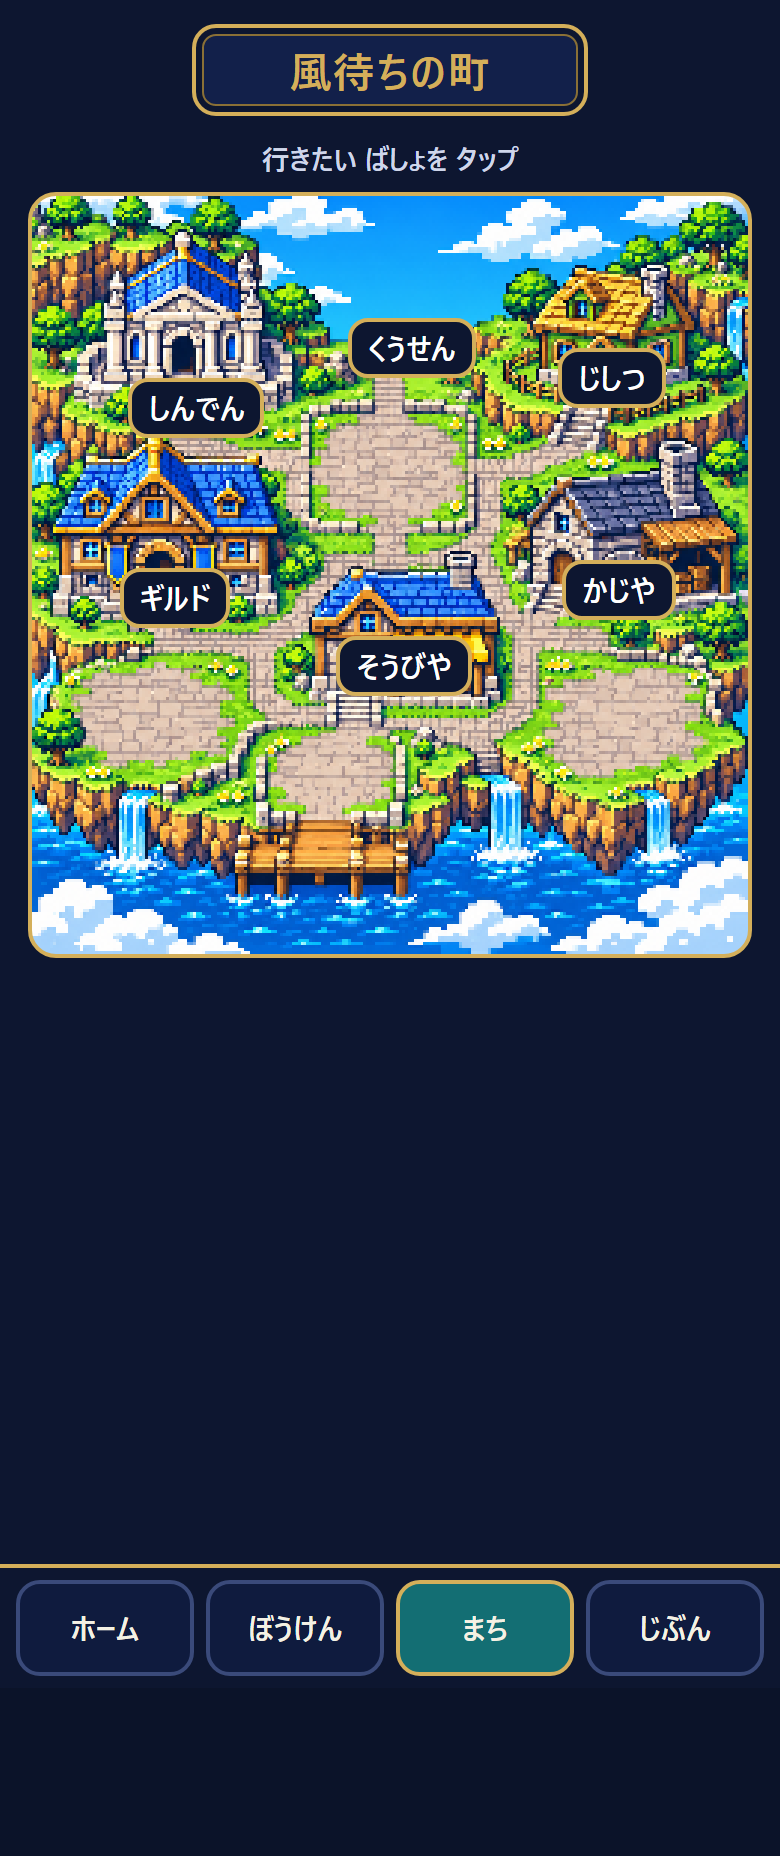
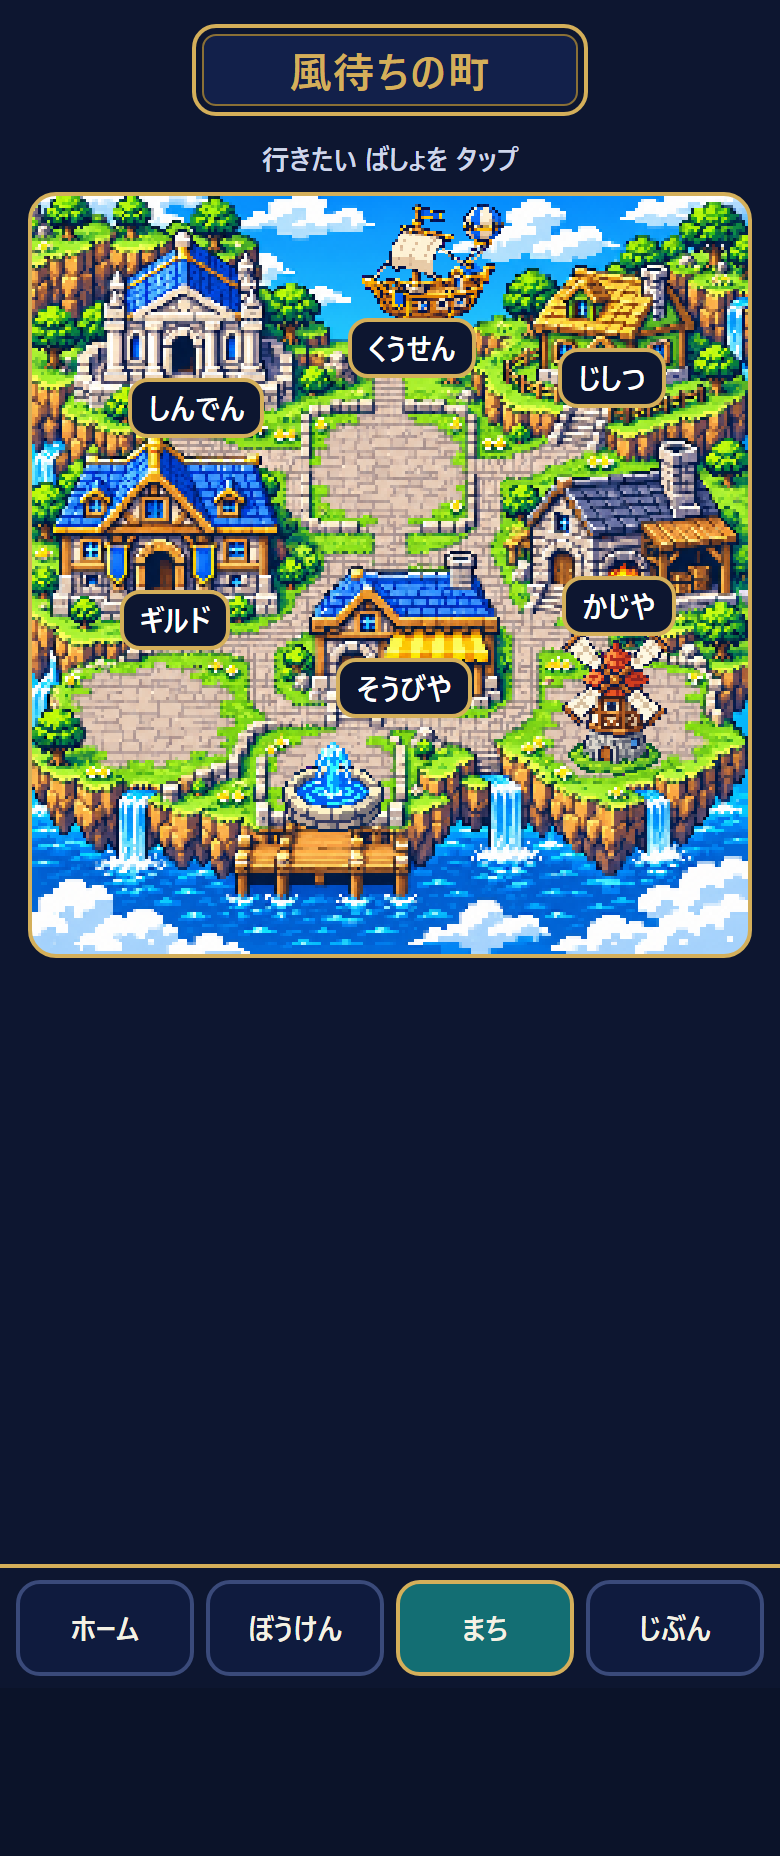
RPG素材: 街の進行差分パーツ4（風車・噴水・空船・記念碑）を正式化。NPC・ポーズ差分の配線の下地

diff --git a/rpg/js/rpg-screens.js b/rpg/js/rpg-screens.js
@@ -133,14 +133,17 @@
     room: { name: 'じしつ', desc: 'じぶんの へや。', links: [['look', 'なまえ・みため'], ['codex', 'ずかん'], ['data', 'ゲームのデータ']] },
     ship: { name: 'くうせん', desc: '見習い船長ルカの船。ぼうけんの ちずを ひらく。', links: [['adv', 'ぼうけんの ちず']] }
   };
+  const mainCleared = s => !!(s.ending && s.ending.seen) || s.progress.step >= D.ROUTE.length;
+  const chCleared = (s, ch) => D.REGIONS.filter(x => x.ch === ch).every(x => (s.progress.clearedRegions || []).includes(x.id));
   const imgOf = id => (SP.IMGS && SP.IMGS[id]) || null;
   const roomImg = id => { const im = imgOf('bg_room_' + id); return im ? `<div class="rs-room" role="img" aria-label="${esc((PLACES[id] || {}).name || '')}の なか" style="background-image:url(${im.src})"></div>` : ''; };
   const NPC_OF = { guild: 'mira', forge: 'toto', ship: 'luca' };
-  const npcImg = (id, alt) => { const k = NPC_OF[id], im = k && (alt && imgOf('npc_' + k + '_alt') || imgOf('npc_' + k)); return im ? `<img class="rs-npc" alt="" src="${im.src}">` : ''; };
-  const TOWN_PARTS = [['town_windmill', 'meadow', 74, 70], ['town_fountain', 'waterland', 34, 74], ['town_airship', null, 46, 1], ['town_monument', 'main', 41, 28]];
+  const npcImg = (id, alt) => { const k = NPC_OF[id], im = k && (alt && imgOf('npc_' + k + '_alt') || imgOf('npc_' + k)), a2 = k && imgOf('npc_' + k + '_alt'); return im ? `<img class="rs-npc" alt="" src="${im.src}"${a2 ? ` data-alt="${a2.src}" data-base="${imgOf('npc_' + k).src}"` : ''}>` : ''; };
+  const NPC_WHO = { 'ミラ': 'mira', 'トト': 'toto', 'ルカ': 'luca', '黒鎧の騎士': 'knight' };
+  const TOWN_PARTS = [['town_windmill', 'meadow', 74, 57], ['town_fountain', 'waterland', 35, 72], ['town_airship', null, 46, 1], ['town_monument', 'main', 41, 28]];
   VIEWS.town = function () {
     const spots = [['guild', 'ギルド', 5, 36], ['shop', 'そうびや', 37, 45], ['forge', 'かじや', 67, 34], ['temple', 'しんでん', 8, 8], ['room', 'じしつ', 66, 4], ['ship', 'くうせん', 38, 0]];
-    const bg = imgOf('bg_town'), s = save(), cl = s.progress.clearedRegions || [], main = !!(s.ending && s.ending.seen) || cl.length >= 18;
+    const bg = imgOf('bg_town'), s = save(), cl = s.progress.clearedRegions || [], main = mainCleared(s);
     const parts = bg ? TOWN_PARTS.filter(([id, need]) => imgOf(id) && (!need || (need === 'main' ? main : cl.includes(need)))).map(([id, , x, y]) => { const im = imgOf(id); return `<img class="rs-tpart" alt="" src="${im.src}" style="left:${x}%;top:${y}%;width:${(im.width / 240 * 100).toFixed(1)}%">`; }).join('') : '';
     return frame('風待ちの町', `<p class="rs-p c">行きたい ばしょを タップ${bg ? '' : '（仮の絵です）'}</p>
       <div class="rs-town${bg ? ' img' : ''}" role="group" aria-label="まちの地図"${bg ? ` style="background-image:url(${bg.src})"` : ''}>${parts}${spots.map(([id, nm, x, y]) => `<button class="rs-spot s-${id}" style="left:${x}%;top:${y}%" data-place="${id}"><span class="rs-bld"></span><b>${nm}</b></button>`).join('')}${bg ? '' : '<div class="rs-sea"></div>'}</div>`, { back: false });
@@ -151,6 +154,10 @@
   VIEWS.place = function (p) {
     const pl = PLACES[p.id] || PLACES.guild;
     return frame(pl.name, `${roomImg(p.id)}${npcImg(p.id)}<p class="rs-p c">${esc(pl.desc)}</p><div class="rs-list">${pl.links.map(([to, nm]) => `<button class="rs-big alt" data-go="${to}" data-p='${JSON.stringify({ place: p.id })}'>${nm}</button>`).join('')}</div>`);
+  };
+
+  AFTER.place = function () {
+    const n = app().querySelector('.rs-npc[data-alt]'); if (n) n.onclick = () => { n.src = n.src === n.dataset.alt ? n.dataset.base : n.dataset.alt; };
   };
 
   // ---------- じぶん ----------
@@ -375,7 +382,8 @@
   function startStory(route, back) { UI.story = { pages: ST.pagesFor(route), i: 0, key: storyKey(route), back: back || 'adv' }; go('story', {}); }
   VIEWS.story = function () {
     const S = UI.story || { pages: [{ who: null, text: '' }], i: 0 }, p = S.pages[S.i], last = S.i >= S.pages.length - 1;
-    return frame('おはなし', `<div class="rs-panel rs-story"><div class="rs-story-who">${p.who ? esc(p.who) : '　'}</div><p class="rs-story-text">${esc(p.text)}</p><div class="rs-story-n">${S.i + 1} / ${S.pages.length}</div></div>
+    const nk = p.who && NPC_WHO[p.who], nim = nk && (/[！？]/.test(p.text) && imgOf('npc_' + nk + '_alt') || imgOf('npc_' + nk));
+    return frame('おはなし', `<div class="rs-panel rs-story">${nim ? `<img class="rs-npc story" alt="" src="${nim.src}">` : ''}<div class="rs-story-who">${p.who ? esc(p.who) : '　'}</div><p class="rs-story-text">${esc(p.text)}</p><div class="rs-story-n">${S.i + 1} / ${S.pages.length}</div></div>
       <div class="rs-row2"><button class="rs-btn" id="stSkip">とばす</button><button class="rs-big" id="stNext">${last ? 'おわり' : 'つぎへ'}</button></div>`);
   };
   AFTER.story = function () {

diff --git a/rpg/js/rpg-ui.js b/rpg/js/rpg-ui.js
@@ -96,7 +96,7 @@
     ctx.clearRect(0, 0, W, H); SP.drawBackground(ctx, W, H, si.region, 'strip');
     const gy = H - 2, hx = 8 + Math.min(RPG.scene.walk, 8) * 6 + (o.heroDx || 0), ex = W - 26 + (o.enemyDx || 0);
     const heroTint = si.status === 'retreat' ? '#8a90a8' : (o.heroFlash ? '#ff9aa0' : null);
-    SP.drawHero(ctx, si.job, hx, gy, { img: 'strip', tint: heroTint, guard: o.guard || si.guard, outfit: si.outfit });
+    SP.drawHero(ctx, si.job, hx, gy, { img: 'strip', pose: o.heroFlash ? 'hit' : o.heroPose, tint: heroTint, guard: o.guard || si.guard, outfit: si.outfit });
     if (si.status !== 'won') SP.drawEnemy(ctx, si.enemyId, si.boss, ex, gy, { img: 'strip', tint: o.enemyFlash ? '#fff' : null, scale: fitScale(SP.IMGS['enemy_' + si.enemyId + '_strip'], 0, 40) });
     if (o.still) { const im = SP.IMGS['fx_' + o.still.kind + '_strip']; if (im) { ctx.save(); ctx.globalAlpha = 0.9; ctx.imageSmoothingEnabled = false; const k = ctx.getTransform().a || 1, w = im.width / k, h = im.height / k, cx = o.still.hero ? hx + 7 : ex + 7; ctx.drawImage(im, cx - w / 2, gy - h - 2, w, h); ctx.restore(); } }
     fxLive.forEach(f => { if (f.started()) f.blit(ctx, f.at === 'hero' ? hx + 7 : f.at === 'melee' ? ex - 10 : ex + 7, f.at === 'enemy' ? gy - 6 : gy, STRIP_FXS, 1, STRIP_DS); });
@@ -124,7 +124,7 @@
       if (e.t === 'hero') {
         const key = e.act !== 'normal' && FXL ? FXL.keyFor(e.act) : null, job = RPG.save && RPG.save.active ? RPG.save.active.battle.hero.job : null;
         const st = { d: 360, key, f: p => {
-          const r = { heroDx: p < .3 ? p / .3 * 8 : p < .6 ? 8 : (1 - (p - .6) / .4) * 8, enemyFlash: p > .3 && p < .6 && e.dmg > 0 };
+          const r = { heroDx: p < .3 ? p / .3 * 8 : p < .6 ? 8 : (1 - (p - .6) / .4) * 8, enemyFlash: p > .3 && p < .6 && e.dmg > 0, heroPose: p > .2 && p < .7 ? 'attack' : null };
           if (!key) { r.slash = p > .25 && p < .55; r.heal = e.heal > 0 && p > .5; }
           else if (!st.played && p > .2 && p < .6) { const kind = FXL.stillOf(key), hero = (FXL.AT[key] === 'hero'); if (kind && SP.IMGS['fx_' + kind + '_strip']) r.still = { kind, hero }; else { r.slash = !hero; r.heal = hero && e.heal > 0; } }
           return r;
@@ -241,7 +241,7 @@
     const paint = () => {
       SP.drawBackground(g, lw, lh, rg, 'reward');
       g.save(); g.scale(2, 2);   // キャラは2倍（仮絵）
-      SP.drawHero(g, res.job.id, cx - 20, gy2, { img: 'reward', tint: res.outcome === 'retreat' ? '#8a90a8' : null, outfit: M.costumeColor(RPG.save) });
+      SP.drawHero(g, res.job.id, cx - 20, gy2, { img: 'reward', pose: res.outcome === 'victory' ? 'win' : 'hit', tint: res.outcome === 'retreat' ? '#8a90a8' : null, outfit: M.costumeColor(RPG.save) });
       if (res.outcome === 'victory') SP.drawChest(g, cx + 4, gy2, true, res.enemy.boss ? 'boss' : 'normal');
       else {
         // 192pxボスは幅が220px超になることがあり、右端が切れる／主人公に重なる。右端を枠の内側に寄せ、足りなければ縮小する

diff --git a/rpg/js/rpg-sprites.js b/rpg/js/rpg-sprites.js
@@ -69,7 +69,7 @@
   }
   function drawHero(ctx, job, x, groundY, o) {
     o = o || {};
-    const im = o.img && IMGS['hero_' + job + (o.img === 'strip' ? '_strip' : '')];
+    const base = 'hero_' + job + (o.img === 'strip' ? '_strip' : ''), im = o.img && ((o.pose && IMGS[base + '_' + o.pose]) || IMGS[base]);
     if (im) {
       blit(ctx, im, x + 7, groundY, o.tint);
       if (o.guard) { ctx.fillStyle = '#7fd3ff'; ctx.fillRect(x + 12, groundY - 12, 2, 5); }

diff --git a/rpg/css/rpg-screens.css b/rpg/css/rpg-screens.css
@@ -142,3 +142,4 @@ body:has(.rs){background:#0b1329}
 .rs-tpart{position:absolute;z-index:1;image-rendering:pixelated;pointer-events:none}
 .rs-room{width:100%;max-width:480px;aspect-ratio:2/1;margin:0 auto 8px;background-size:100% 100%;image-rendering:pixelated;border:2px solid var(--gold);border-radius:10px}
 .rs-npc{display:block;margin:-40px auto 4px;height:96px;image-rendering:pixelated;position:relative}
+.rs-npc.story{margin:0 auto 6px;height:88px}

diff --git a/rpg/assets/tools/town_shots.py b/rpg/assets/tools/town_shots.py
@@ -9,7 +9,7 @@ srv = socketserver.TCPServer(('127.0.0.1', 18437), functools.partial(Q, director
 con = []
 def put(pg, name):
     t = open(os.path.join(SAVES, name + '.json'), encoding='utf-8').read()
-    pg.evaluate("t => localStorage.setItem('ichimon.rpg.v1', t)", t); pg.reload(); pg.wait_for_selector('.subj'); pg.wait_for_timeout(1500)
+    pg.evaluate("t => localStorage.setItem('ichimon.rpg.v1', t)", t); pg.reload(); pg.wait_for_selector('.subj'); pg.wait_for_function("() => RPGSprites.IMGS.town_airship && RPGSprites.IMGS.bg_town"); pg.wait_for_timeout(300)
 with sync_playwright() as p:
     b = p.chromium.launch(headless=True); pg = b.new_context(viewport={'width': 390, 'height': 844}, device_scale_factor=2, is_mobile=True, has_touch=True).new_page()
     pg.on('console', lambda m: con.append(m.text) if m.type == 'error' else None); pg.on('pageerror', lambda e: con.append(str(e)))
